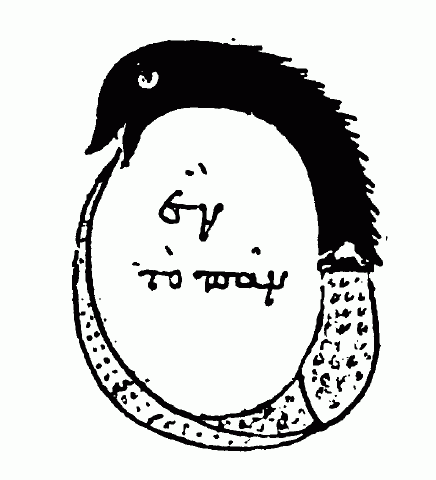
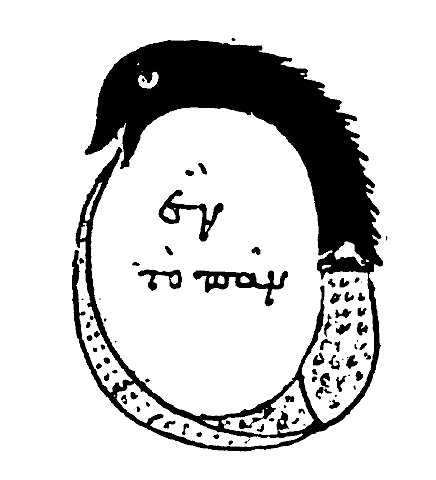
*

diff --git a/site/uxntal_library.html b/site/uxntal_library.html
@@ -247,6 +247,11 @@ it all for you!</h2>
 <i>( uxncli gen.rom > gen-self.rom )</i>
 @q &a ;q/e ;q/a &l LDAk #18 DEO INC2 GTH2k ?&l &e</pre>
 
+<p>The compiled program above emits itself:</p>
+<pre>a001 0fa0 0100 9480 1817 21aa 20ff f7</pre>
+
+<img src='../media/refs/the_all_is_one.png' width='120'/>
+
 <h3>Self-Printing</h3>
 
 <p>The following program will emit a program that emits its own bytecode as

diff --git a/site/uxntal_labyrinth.html b/site/uxntal_labyrinth.html
@@ -15,6 +15,11 @@ it all for you!</h2>
 <i>( uxncli gen.rom > gen-self.rom )</i>
 @q &a ;q/e ;q/a &l LDAk #18 DEO INC2 GTH2k ?&l &e</pre>
 
+<p>The compiled program above emits itself:</p>
+<pre>a001 0fa0 0100 9480 1817 21aa 20ff f7</pre>
+
+<img src='../media/refs/the_all_is_one.png' width='120'/>
+
 <h3>Self-Printing</h3>
 
 <p>The following program will emit a program that emits its own bytecode as

diff --git a/src/htm/uxntal_labyrinth.htm b/src/htm/uxntal_labyrinth.htm
@@ -8,6 +8,11 @@ it all for you!</h2>
 <i>( uxncli gen.rom > gen-self.rom )</i>
 @q &a ;q/e ;q/a &l LDAk #18 DEO INC2 GTH2k ?&l &e</pre>
 
+<p>The compiled program above emits itself:</p>
+<pre>a001 0fa0 0100 9480 1817 21aa 20ff f7</pre>
+
+<img src='../media/refs/the_all_is_one.png' width='120'/>
+
 <h3>Self-Printing</h3>
 
 <p>The following program will emit a program that emits its own bytecode as
